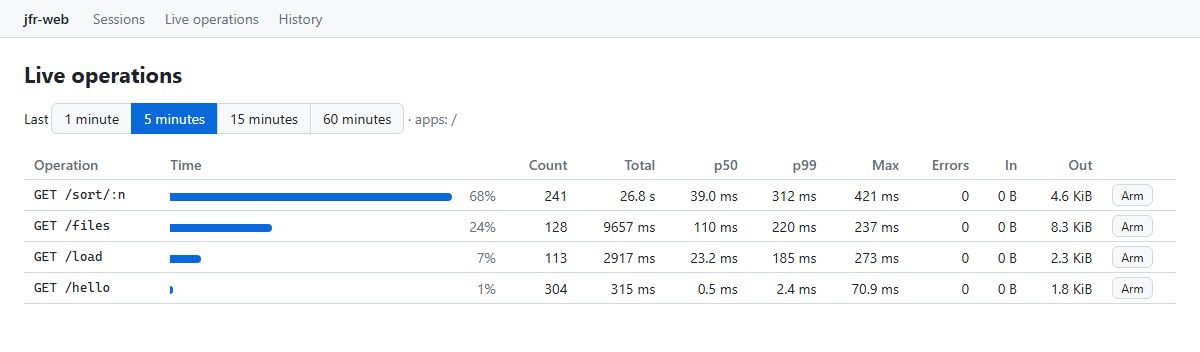
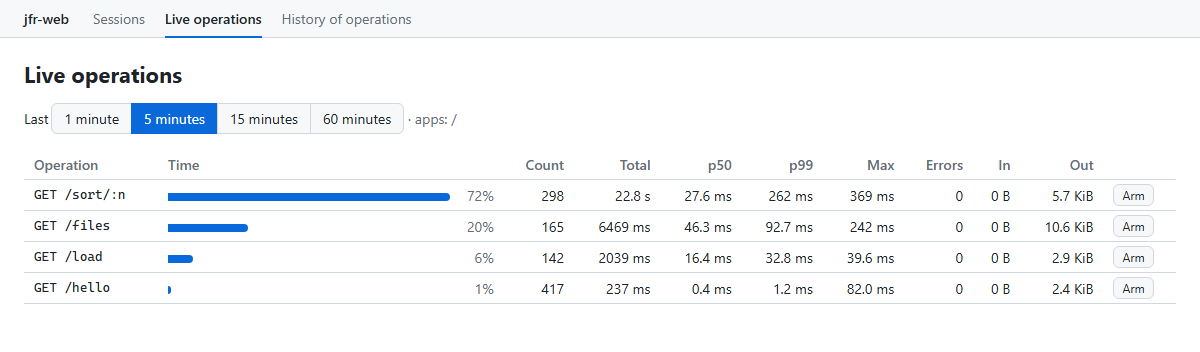
0.3.0: README coordinates and JBang alias on 0.3.0, local builds 0.4.0-SNAPSHOT; screenshots retaken
0.3.0 brings standalone mode (other JVMs profiled from outside), jfr-web open (recordings browsed in the interface), events of the application mapped to operations, sessions kept across restarts, and the command line released as a distribution, a single jar and a JBang alias.

diff --git a/README.md b/README.md
@@ -85,15 +85,15 @@ repositories {
 }
 
 dependencies {
-  implementation 'com.github.pcdv:jfr-web:0.2.0'
+  implementation 'com.github.pcdv:jfr-web:0.3.0'
 }
 ```
 
-To try your own build, publish it locally as the next version, `0.3.0-SNAPSHOT`:
+To try your own build, publish it locally as the next version, `0.4.0-SNAPSHOT`:
 
 ```sh
-./gradlew publish -Pversion=0.3.0-SNAPSHOT               # local Ivy repository
-./gradlew publishToMavenLocal -Pversion=0.3.0-SNAPSHOT   # local Maven repository
+./gradlew publish -Pversion=0.4.0-SNAPSHOT               # local Ivy repository
+./gradlew publishToMavenLocal -Pversion=0.4.0-SNAPSHOT   # local Maven repository
 ```
 
 ## Embedded
@@ -374,7 +374,7 @@ More: [docs/requirements.md](docs/requirements.md) for what the project sets out
 
 ## Releasing
 
-Push a tag like `0.3.0`. JitPack builds the library from it, and the release workflow attaches
+Push a tag like `0.4.0`. JitPack builds the library from it, and the release workflow attaches
 the zip, the tarball and the single jar to a GitHub release (made for the tag if there isn't one
 yet). Then bump the version in `jbang-catalog.json` and in the README's coordinates.
 
